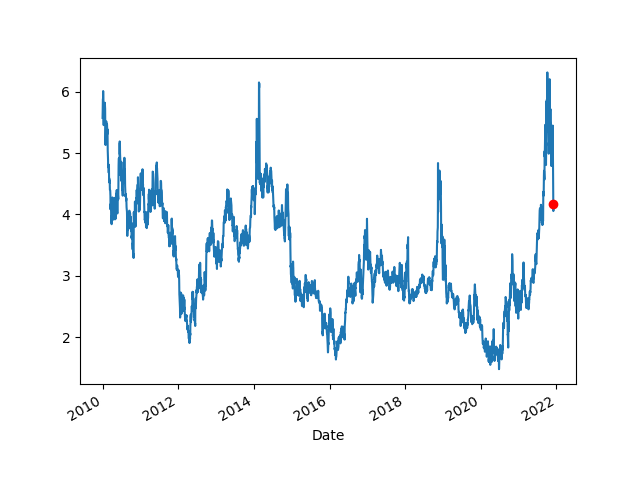
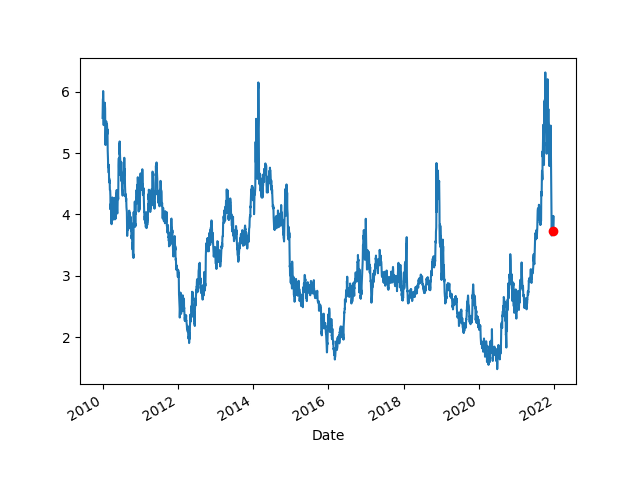
-

diff --git a/en/2019/05/stats.md b/en/2019/05/stats.md
@@ -797,7 +797,7 @@ plt.savefig('crude-production.png')
 
 <a name="natgas"></a>
 
-Natural Gas Price
+World Natural Gas Price
 
 ```python
 import pandas as pd, datetime, time as timelib
@@ -819,17 +819,58 @@ plt.savefig('natgas.png')
 
 ```text
 Date
-2021-11-25    5.119
-2021-11-26    5.447
-2021-11-29    4.854
-2021-11-30    4.567
-2021-12-01    4.258
-2021-12-02    4.056
-2021-12-03    4.167
+2021-12-16    3.766
+2021-12-17    3.690
+2021-12-20    3.834
+2021-12-21    3.869
+2021-12-22    3.976
+2021-12-23    3.731
+2021-12-23    3.733
 Name: Adj Close, dtype: float64
 ```
 
 ![](natgas.png)
+
+<a name="einatgas"></a>
+
+EI Natural Gas Price
+
+Price is from Dutch TTF contract which is considered as the benchmark
+price for natural gas in Europe. Unit is 1 MW of energy, priced in
+Euros.
+
+```python
+import pandas as pd, datetime, time as timelib
+import urllib.request as urllib2, io
+end = datetime.datetime.now()
+start=datetime.datetime(2010, 1, 1)
+start = int(timelib.mktime(start.timetuple()))
+end = int(timelib.mktime(end.timetuple()))
+base_fin_url = "https://query1.finance.yahoo.com/v7/finance/download"
+url = base_fin_url + "/TTF=F?period1=" + str(start) + "&period2=" + str(end) + "&interval=1d&events=history&includeAdjustedClose=true"
+r = urllib2.urlopen(url).read()
+file = io.BytesIO(r)
+df = pd.read_csv(file,index_col='Date',parse_dates=True)['Adj Close']
+df.plot()
+plt.plot(df.tail(1).index, df.tail(1),'ro')
+print (df.tail(7))
+plt.savefig('eunatgas.png')
+```
+
+```text
+Date
+2021-12-16    142.764999
+2021-12-17    136.912994
+2021-12-20    146.925995
+2021-12-21    180.266998
+2021-12-22    172.875000
+2021-12-23    132.578995
+2021-12-23    129.360001
+Name: Adj Close, dtype: float64
+```
+
+![](eunatgas.png)
+
 
 <a name="coal"></a>
 
